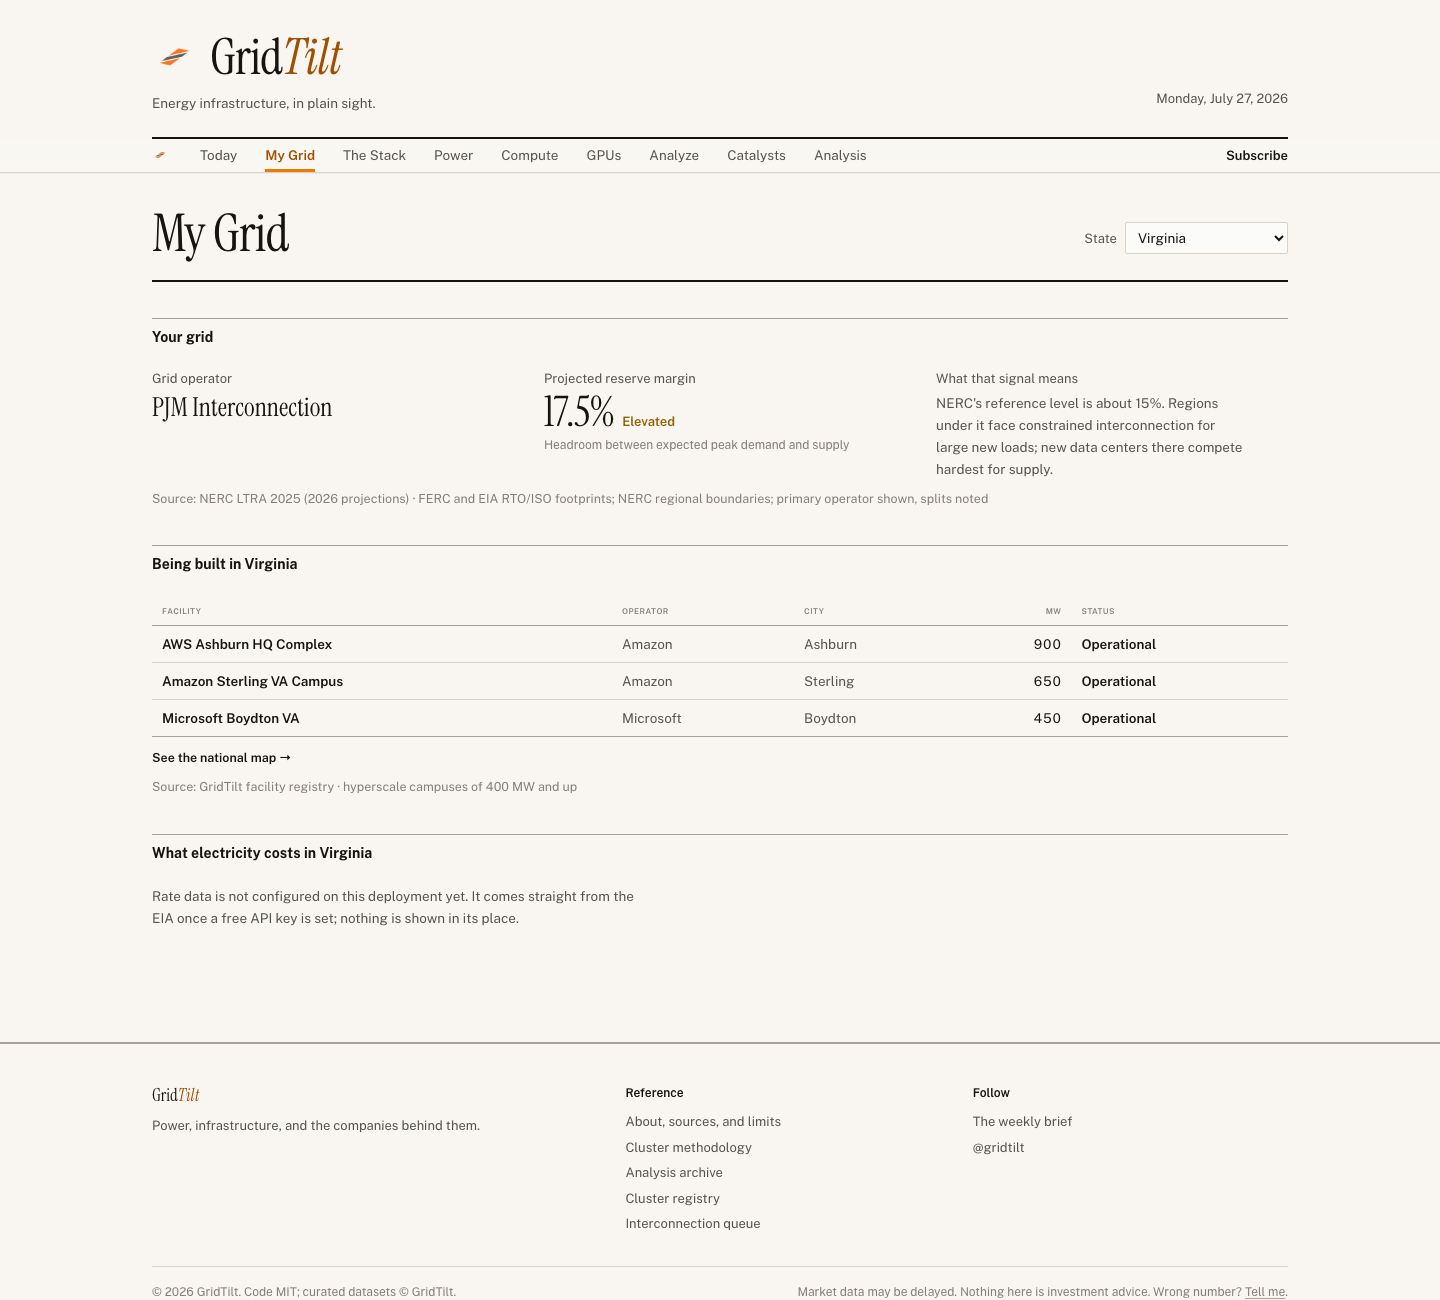
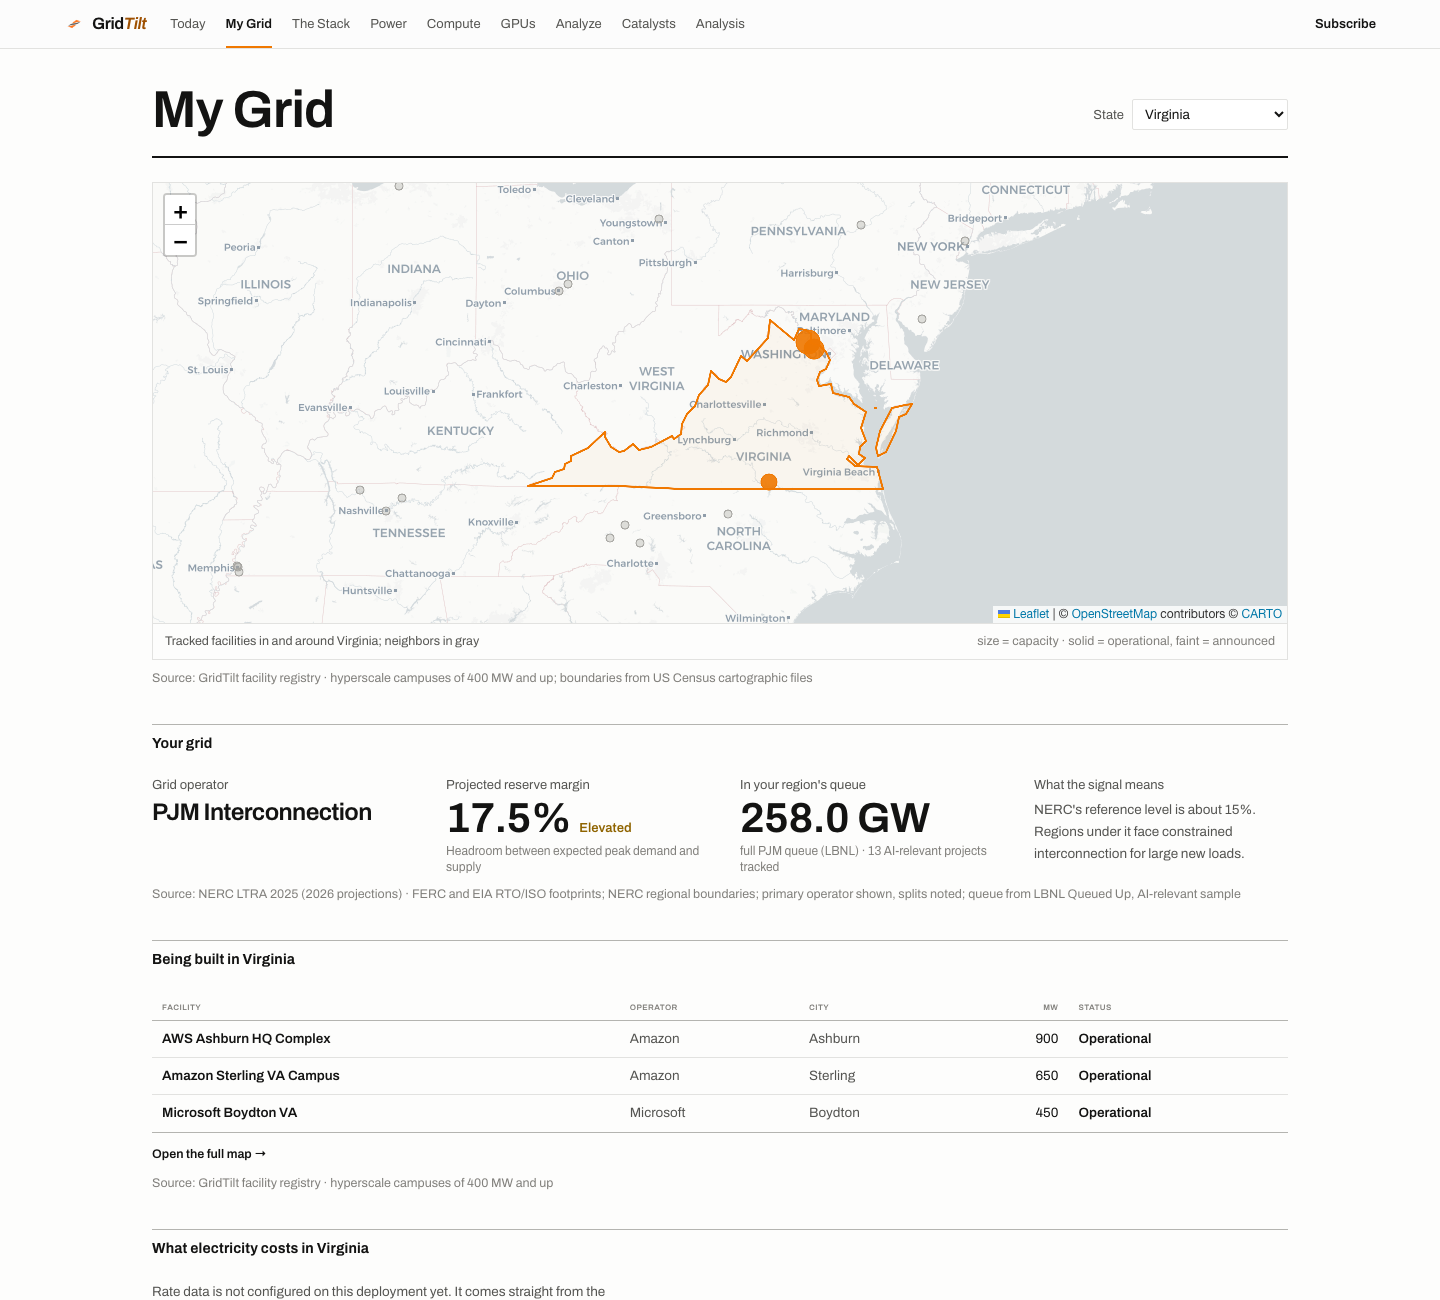
feat: My Grid goes map-first with honest region queue numbers
The map leads the page: national view until a state is chosen, then
the state boundary (US Census cartographic files, vendored) with
in-state facilities in orange and neighbors in gray. Region queue stat
headlines the LBNL whole-queue aggregate where one exists and counts
named AI-relevant projects separately - summing both double counted
(the naive sum showed 317.7 GW for PJM; the honest figure is the
258 GW LBNL aggregate plus 13 named projects).

diff --git a/client/src/pages/my-grid.tsx b/client/src/pages/my-grid.tsx
@@ -1,18 +1,30 @@
 /**
- * My Grid: pick a state, see your grid operator and its headroom, what is
- * being built near you, and what residential electricity costs there.
- * State choice persists locally; no account, nothing leaves the browser.
+ * My Grid: the buildout where you live. Map first - national view until a
+ * state is chosen, then the state boundary with every tracked facility in
+ * and around it - followed by the operator's headroom, the region's queue,
+ * the facility list, and residential rates. State choice persists locally;
+ * nothing leaves the browser.
  */
 import { useMemo, useState } from "react";
 import { useQuery } from "@tanstack/react-query";
 import { Link } from "wouter";
+import { MapContainer, TileLayer, CircleMarker, GeoJSON as GeoJSONLayer, Tooltip as MapTooltip, useMap } from "react-leaflet";
+import L from "leaflet";
+import "leaflet/dist/leaflet.css";
+import type { Feature, FeatureCollection } from "geojson";
 import { LineChart, Line, XAxis, YAxis, CartesianGrid, Tooltip, ResponsiveContainer } from "recharts";
 import { Skeleton } from "@/components/ui/skeleton";
 import { SrChartTable } from "@/components/Freshness";
 import { PageShell, PageTitle, Provenance, PullStat, RuleSection } from "@/components/editorial";
 import { RTO_CONFIG, RTO_SOURCE_NOTE } from "@/data/rto-config";
 import { STATE_GRID, STATE_GRID_SOURCE } from "@/data/state-grid";
+import { BRAND, INK } from "@/lib/tokens";
 import { HIGHLIGHT, axisProps, gridProps, tooltipContentStyle, tooltipItemStyle, tooltipLabelStyle } from "@/lib/chart-theme";
+// US state boundaries: US Census cartographic boundary file (public domain),
+// via the widely used us-states GeoJSON distribution.
+import statesGeoRaw from "@/data/us-states.geo.json";
+
+const statesGeo = statesGeoRaw as unknown as FeatureCollection;
 
 const STORAGE_KEY = "gt-my-grid-state";
 
@@ -22,6 +34,8 @@ interface Facility {
   company: string;
   city: string;
   state: string;
+  lat: number;
+  lng: number;
   powerMW: number | null;
   status: string;
 }
@@ -34,6 +48,28 @@ interface RatePoint {
 type RetailRates =
   | { configured: false; howTo: string }
   | { configured: true; unit: string; source: string; sourceUrl: string; byState: Record<string, RatePoint[]> };
+
+interface QueueProject {
+  iso: string;
+  projectName?: string;
+  capacityMW: number | null;
+  type?: string;
+}
+
+interface QueueResponse {
+  projects: QueueProject[];
+}
+
+/** Which LBNL queue buckets correspond to a state's mapped region. */
+const QUEUE_ISOS: Record<string, string[]> = {
+  PJM: ["PJM"],
+  MISO: ["MISO"],
+  ERCOT: ["ERCOT"],
+  SERC: ["SERC"],
+  SPP: ["SPP"],
+  WECC: ["WECC", "Non-ISO West"],
+  NPCC: ["NYISO", "ISO-NE"],
+};
 
 const SIGNAL_CLASS: Record<string, string> = {
   Critical: "text-negative",
@@ -48,8 +84,102 @@ const STATUS_LABEL: Record<string, string> = {
   announced: "Announced",
 };
 
+const STATUS_OPACITY: Record<string, number> = {
+  operational: 0.9,
+  construction: 0.55,
+  announced: 0.3,
+};
+
 function fmtMonth(month: string): string {
   return new Date(`${month}-15T12:00:00Z`).toLocaleDateString("en-US", { month: "short", year: "2-digit" });
+}
+
+/** Fly the map to the selected state's bounds (or the continental US). */
+function MapFocus({ feature }: { feature: Feature | null }) {
+  const map = useMap();
+  useMemo(() => {
+    if (feature) {
+      map.fitBounds(L.geoJSON(feature).getBounds().pad(0.35), { animate: true, duration: 0.8 });
+    } else {
+      map.fitBounds(L.latLngBounds([24.5, -125], [49.5, -66.5]), { animate: false });
+    }
+  }, [feature, map]);
+  return null;
+}
+
+function MyGridMap({
+  stateCode,
+  stateName,
+  facilities,
+}: {
+  stateCode: string;
+  stateName: string | null;
+  facilities: Facility[];
+}) {
+  const feature = useMemo(
+    () => (stateName ? statesGeo.features.find((f) => (f.properties as { name?: string })?.name === stateName) ?? null : null),
+    [stateName],
+  );
+
+  return (
+    <figure className="border border-rule" data-testid="my-grid-map">
+      <div className="h-[440px] w-full isolate z-0">
+        <MapContainer
+          center={[38.5, -96]}
+          zoom={4}
+          zoomControl
+          scrollWheelZoom={false}
+          attributionControl
+          className="h-full w-full"
+          style={{ background: "var(--paper)" }}
+        >
+          <TileLayer
+            url="https://{s}.basemaps.cartocdn.com/light_all/{z}/{x}/{y}{r}.png"
+            attribution='&copy; <a href="https://www.openstreetmap.org/copyright">OpenStreetMap</a> contributors &copy; <a href="https://carto.com/attributions">CARTO</a>'
+          />
+          {feature && (
+            <GeoJSONLayer
+              key={stateCode}
+              data={feature}
+              style={{ color: BRAND.primary, weight: 2, fillColor: BRAND.primary, fillOpacity: 0.04 }}
+            />
+          )}
+          {facilities.map((f) => {
+            const inState = stateCode !== "" && f.state === stateCode;
+            return (
+              <CircleMarker
+                key={f.id}
+                center={[f.lat, f.lng]}
+                radius={inState ? Math.max(6, Math.min(14, Math.sqrt(f.powerMW ?? 100) / 2.6)) : 4}
+                pathOptions={{
+                  color: inState ? BRAND.primary : INK.faint,
+                  weight: 1,
+                  fillColor: inState ? BRAND.primary : INK.faint,
+                  fillOpacity: inState ? (STATUS_OPACITY[f.status] ?? 0.3) : 0.35,
+                }}
+              >
+                <MapTooltip>
+                  <span className="text-[12px]">
+                    {f.name} · {f.company}
+                    {f.powerMW ? ` · ${f.powerMW} MW` : ""} · {STATUS_LABEL[f.status] ?? f.status}
+                  </span>
+                </MapTooltip>
+              </CircleMarker>
+            );
+          })}
+          <MapFocus feature={feature} />
+        </MapContainer>
+      </div>
+      <figcaption className="flex flex-wrap items-baseline justify-between gap-x-4 gap-y-1 border-t border-rule px-3 py-2 text-[12.5px] text-ink-secondary">
+        <span>
+          {stateName
+            ? `Tracked facilities in and around ${stateName}; neighbors in gray`
+            : "Every tracked US facility; pick a state to zoom in"}
+        </span>
+        <span className="text-ink-muted">size = capacity · solid = operational, faint = announced</span>
+      </figcaption>
+    </figure>
+  );
 }
 
 export default function MyGrid() {
@@ -77,6 +207,8 @@ export default function MyGrid() {
     refetchInterval: 900000,
   });
 
+  const { data: queue } = useQuery<QueueResponse>({ queryKey: ["/api/queue"] });
+
   const { data: rates } = useQuery<RetailRates>({
     queryKey: ["/api/physical/retail-rates"],
     // 503 = honestly unconfigured, still a payload we render; only network
@@ -98,6 +230,22 @@ export default function MyGrid() {
       .filter((f) => f.state === state)
       .sort((a, b) => (b.powerMW ?? 0) - (a.powerMW ?? 0));
   }, [facilities, state]);
+
+  const regionQueue = useMemo(() => {
+    if (!queue?.projects || !grid) return null;
+    const isos = state === "CA" ? ["CAISO"] : (grid.region ? QUEUE_ISOS[grid.region] ?? [] : []);
+    if (isos.length === 0) return null;
+    const rows = queue.projects.filter((p) => isos.includes(p.iso));
+    // The dataset mixes LBNL whole-queue aggregate rows with named
+    // AI-relevant projects; summing both would double count. Headline the
+    // aggregate where one exists, count only the named rows.
+    const named = rows.filter((p) => !/aggregate/i.test(p.projectName ?? ""));
+    const agg = rows.find((p) => /aggregate/i.test(p.projectName ?? ""));
+    if (agg?.capacityMW) return { kind: "total" as const, isos, count: named.length, mw: agg.capacityMW };
+    const mw = named.reduce((s, p) => s + (p.capacityMW ?? 0), 0);
+    if (named.length === 0) return null;
+    return { kind: "named" as const, isos, count: named.length, mw };
+  }, [queue, grid, state]);
 
   const series = useMemo(() => {
     if (!rates || !("byState" in rates) || !state) return [];
@@ -133,20 +281,19 @@ export default function MyGrid() {
         testId="my-grid-header"
       />
 
-      {!grid ? (
-        <div className="max-w-[60ch] py-8" data-testid="my-grid-empty">
-          <p className="text-[15px] leading-relaxed text-ink-secondary">
-            Pick a state to see its grid operator, the capacity being built there, and what
-            residential electricity costs. The choice stays in your browser.
-          </p>
-        </div>
-      ) : (
+      <MyGridMap stateCode={state} stateName={grid?.name ?? null} facilities={facilities ?? []} />
+      <Provenance
+        source="GridTilt facility registry"
+        extra="hyperscale campuses of 400 MW and up; boundaries from US Census cartographic files"
+      />
+
+      {grid && (
         <>
-          <RuleSection head="Your grid" className="mt-2" testId="my-grid-operator">
-            <div className="grid grid-cols-1 gap-x-10 gap-y-6 md:grid-cols-3">
-              <div className="md:col-span-1">
+          <RuleSection head="Your grid" testId="my-grid-operator">
+            <div className="grid grid-cols-1 gap-x-10 gap-y-6 md:grid-cols-2 lg:grid-cols-4">
+              <div>
                 <p className="text-[13px] leading-tight text-ink-secondary">Grid operator</p>
-                <p className="mt-1 font-serif text-[26px] leading-tight text-ink">{grid.operatorLabel}</p>
+                <p className="mt-1 font-serif text-[24px] leading-tight text-ink">{grid.operatorLabel}</p>
                 {grid.note && <p className="mt-2 text-[12.5px] leading-snug text-ink-muted">{grid.note}</p>}
               </div>
               {rto ? (
@@ -158,24 +305,49 @@ export default function MyGrid() {
                     note="Headroom between expected peak demand and supply"
                     testId="my-grid-margin"
                   />
+                  {regionQueue ? (
+                    <PullStat
+                      label={regionQueue.kind === "total" ? "In your region's queue" : "Tracked queue projects"}
+                      value={`${(regionQueue.mw / 1000).toFixed(1)} GW`}
+                      note={
+                        regionQueue.kind === "total"
+                          ? `full ${regionQueue.isos.join("/")} queue (LBNL) · ${regionQueue.count} AI-relevant projects tracked`
+                          : `${regionQueue.count} named projects (${regionQueue.isos.join(", ")})`
+                      }
+                      testId="my-grid-queue"
+                    />
+                  ) : (
+                    <div>
+                      <p className="text-[13px] leading-tight text-ink-secondary">Waiting in your region's queue</p>
+                      <p className="mt-1.5 max-w-[30ch] text-[13px] leading-relaxed text-ink-muted">
+                        No AI-relevant projects for this region in the current tracked sample.
+                      </p>
+                    </div>
+                  )}
                   <div>
-                    <p className="text-[13px] leading-tight text-ink-secondary">What that signal means</p>
-                    <p className="mt-1.5 max-w-[38ch] text-[13.5px] leading-relaxed text-ink-secondary">
+                    <p className="text-[13px] leading-tight text-ink-secondary">What the signal means</p>
+                    <p className="mt-1.5 max-w-[36ch] text-[13.5px] leading-relaxed text-ink-secondary">
                       NERC's reference level is about 15%. Regions under it face constrained
-                      interconnection for large new loads; new data centers there compete
-                      hardest for supply.
+                      interconnection for large new loads.
                     </p>
                   </div>
                 </>
               ) : (
-                <div className="md:col-span-2">
+                <div className="md:col-span-3">
                   <p className="max-w-[48ch] text-[13.5px] leading-relaxed text-ink-secondary">
                     {grid.note ?? "No regional reliability assessment applies here."}
                   </p>
                 </div>
               )}
             </div>
-            <Provenance source={RTO_SOURCE_NOTE} extra={STATE_GRID_SOURCE} />
+            <Provenance
+              source={RTO_SOURCE_NOTE}
+              extra={
+                <>
+                  {STATE_GRID_SOURCE}; queue from LBNL Queued Up, AI-relevant sample
+                </>
+              }
+            />
           </RuleSection>
 
           <RuleSection head={`Being built in ${grid.name}`} testId="my-grid-facilities">
@@ -184,7 +356,8 @@ export default function MyGrid() {
             ) : localFacilities.length === 0 ? (
               <p className="text-[13.5px] text-ink-secondary" data-testid="my-grid-no-facilities">
                 No tracked facilities in {grid.name}. The registry covers hyperscale campuses of
-                400 MW and up; smaller sites are out of scope.
+                400 MW and up; smaller sites are out of scope. Gray marks on the map are the
+                nearest tracked facilities in neighboring states.
               </p>
             ) : (
               <table className="print-table" data-testid="my-grid-facility-table">
@@ -214,7 +387,7 @@ export default function MyGrid() {
             )}
             <p className="mt-2">
               <Link href="/power-map" className="text-[12.5px] font-semibold text-ink no-underline hover:text-brand-ink">
-                See the national map →
+                Open the full map →
               </Link>
             </p>
             <Provenance source="GridTilt facility registry" extra="hyperscale campuses of 400 MW and up" />
